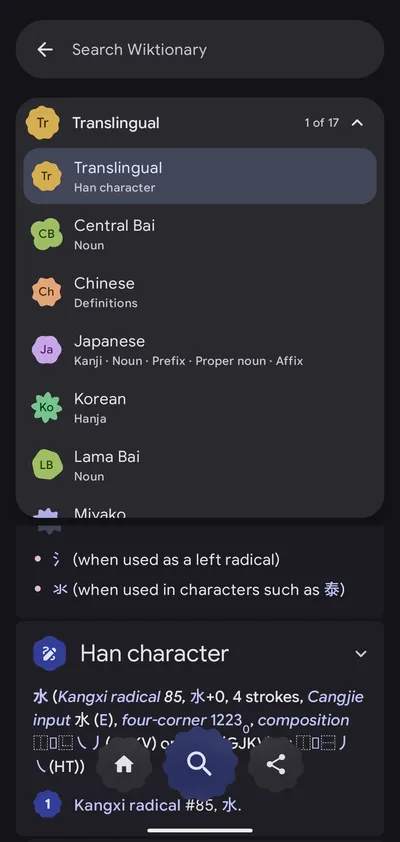
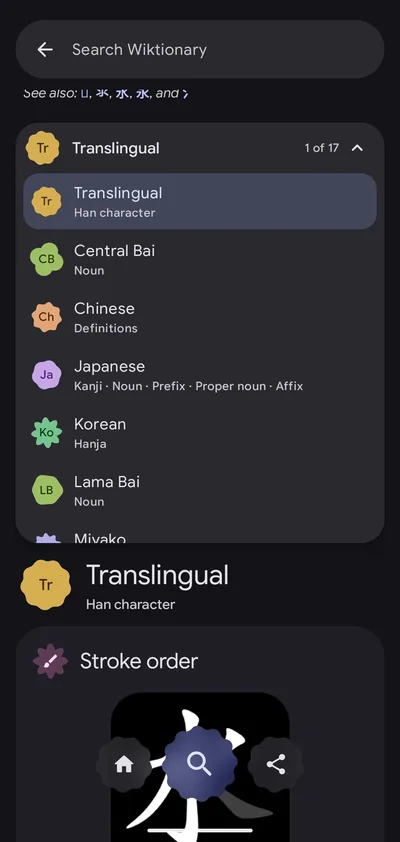
Retake README screenshots and add release notes for 1.0.2

diff --git a/docs/releases/v1.0.2.md b/docs/releases/v1.0.2.md
@@ -1,0 +1,34 @@
+## Lexeme 1.0.2
+
+### Lookups that load everywhere
+On some networks every lookup failed with "Couldn't load this page" and **HTTP 403**: Wikimedia
+was turning the app away as an anonymous bot. Lexeme now identifies itself the way Wikimedia asks,
+with a link back to the project, and those lookups load again.
+
+### Tablets, foldables and dual screens
+On a tablet, an unfolded foldable or a Surface Duo, Lexeme now uses two panes side by side.
+- **Entries** put the word and a **contents list** on one side and the entry itself on the other.
+  The contents list shows every language on the page, and the one you're reading opens into its
+  sections: Etymology, Pronunciation, Noun and so on. It follows along as you scroll, highlighting
+  where you are, and tapping any language or section jumps straight there.
+- **Home** puts the logo and Surprise me on one side, and your recent words and the search button
+  on the other.
+- Settings and the search field open in the reading pane, beside what you were looking at.
+- On foldables and dual-screen phones the panes split exactly at the fold or hinge, so nothing sits
+  on the crease or disappears behind the hinge. Turn the device on its side and they stack top and
+  bottom instead.
+
+Phones keep the single-column layout they had.
+
+### Smoother
+- Scrolling does less work per frame: the screen is no longer painted several times over before
+  anything is drawn, and entries, etymology trees and tables do less redundant drawing.
+- The spinning badges and buttons now stop while you scroll, so the page gets the frame time.
+  They don't just freeze: they slam to a stop with a little overshoot, then wind back up to speed
+  once the page comes to rest.
+
+### Fixes
+- Scrolling back up slowly now brings Home and Share back. Before, only a quick flick did.
+- Opening a word you'd already looked up now records its real title in Recent, rather than the
+  spelling you typed (for example "water", not "Water").
+- TalkBack now announces the Material You setting as a switch.
